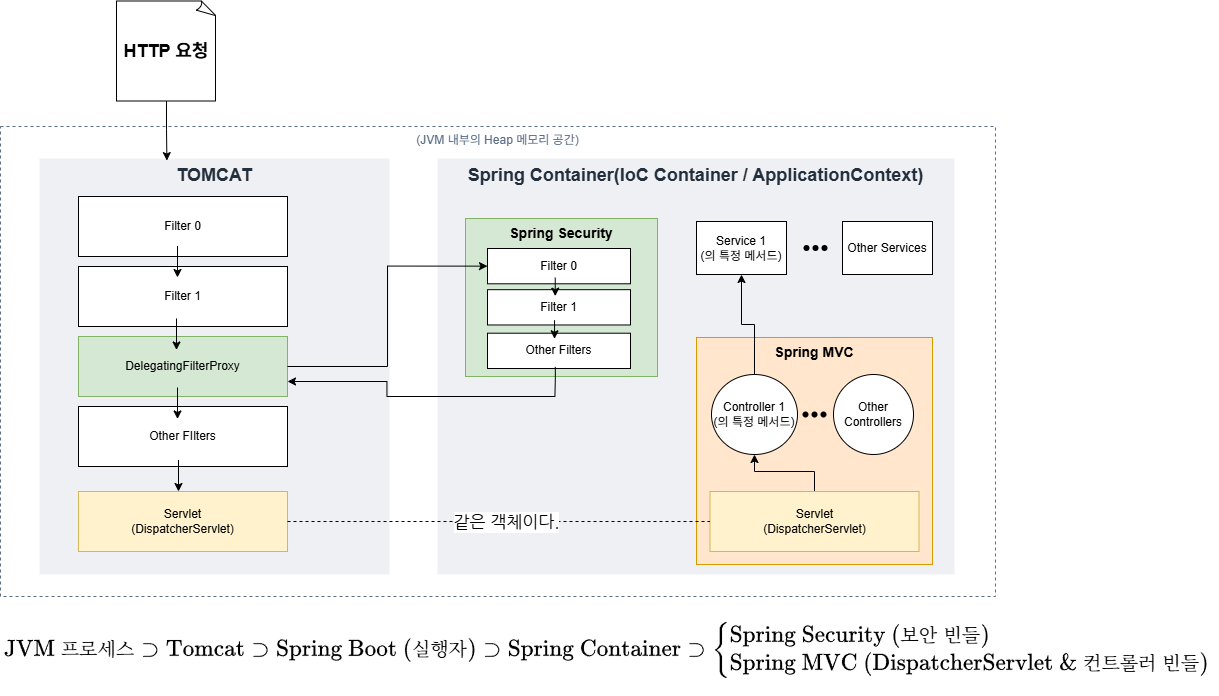
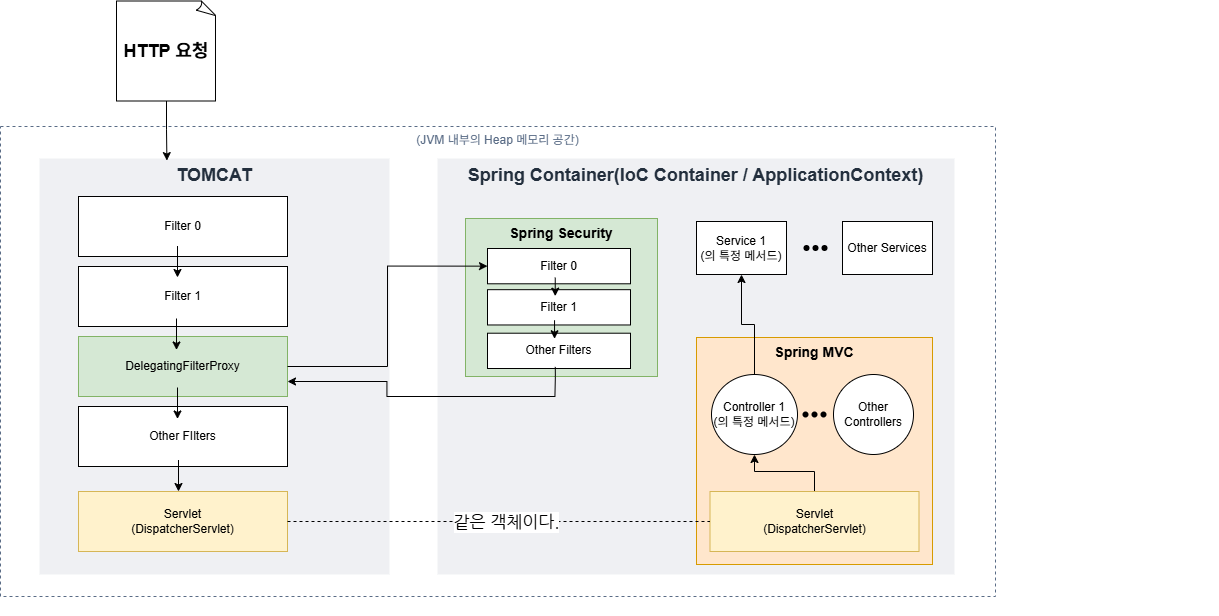
updating post

diff --git a/_posts/2026-07-17-Spring(1).md b/_posts/2026-07-17-Spring(1).md
@@ -1,0 +1,344 @@
+---
+layout: post
+title:  "[Spring] Spring 공부(1)"
+author: kau-newbie
+categories: [Spring]
+image: assets/images/forPost/Springicon.png
+---
+
+요약: Spring 프로젝트를 시작하기에 앞서, Spring 이란 무엇일까
+
+# Spring 프로젝트 - 홈캠 서버 구현하기
+
+프로젝트를 진행해볼겸, Spring으로 서버를 구현하기로 했다.
+
+## Spring이란
+
+**Spring**은 **framework**이다.
+
+### framework란?
+
+프레임워크는 [위키피디아](https://ko.wikipedia.org/wiki/%EC%86%8C%ED%94%84%ED%8A%B8%EC%9B%A8%EC%96%B4_%ED%94%84%EB%A0%88%EC%9E%84%EC%9B%8C%ED%81%AC)에서 정의하기를,
+
+<blockquote style="padding: 10px 15px; border-left: 4px solid #cbcbcb; background-color: #f9f9f9; color: #555;">
+"소프트웨어 프레임워크(software framework)는 개발자가 완전한 솔루션을 만들기 위해 확장하거나 맞춤화할 수 있는 재사용 가능하고 일반적인 기능을 제공하는 소프트웨어다. 간단히 뼈대, 골조(骨組), 프레임워크(framework)라고도 한다.(생략)"
+</blockquote><br>
+
+위의 정의를 대강 살펴보면, "재사용 가능하고 일반적인"이란 말이 들어있다. 개발자들이 사용하기 편한 수준으로 (시스템레벨, 네트워크 설정, DI 처럼 세세하게 신경써야하는 코드를 다 짜놓아서) 자주 쓸만한 기능들을 제공한다는 말이다.(*추상화*라고 하겠다.)
+> 이 기능들을 사용하는 방법은 보통 메서드 호출이 있고,
+>
+> 보통은 이 메서드 호출마저 '프레임워크가 자동으로 해주도록' *어노테이션(@)*을 이용한다.
+
+<details>
+<summary>막간 상식: 프레임워크(framework) v.s. 라이브러리(library)</summary>
+
+<blockquote style="padding: 10px 15px; border-left: 4px solid #cbcbcb; background-color: #f9f9f9; color: #555;">
+<strong>제미나이의 비유에 따르면,</strong><br><br>
+<ul>
+  <li>라이브러리(Library): 내가 주도권을 쥐고 필요할 때마다 꺼내 쓰는 도구. (자바의 Math.max(), 안드로이드의 Glide 등) 내가 원할 때 호출하고 흐름을 제어합니다.</li>
+  <li>프레임워크(Framework): 내가 그 안에 들어가서 규칙을 따라야 하는 틀이자 '프로그램의 뼈대'.</li>
+</ul><br>
+</blockquote>
+</details>
+
+계속해서 젬나이의 말을 각색하자면, Spring이 framework인 이유는 2가지가 있다고 한다.
+
+1. **제어의 역전(IoC)**
+
+  **IoC(Inversion of Control)**이란, 내가 코드를 짜고 시스템의 실행 흐름을 주도하며, 그 사이사이에 여러 라이브러리들의 메소드 등을 호출하는 방식이 아니라, Spring이라는 프레임워크가 전체적인 실행흐름을 주도해서, 개발자는 그 사이의 작은 실행흐름들에만 집중하도록 하는 방식을 말한다.
+
+2. **프레임워크(뼈대, 시스템의 구조)를 제공**
+
+  반복적인 작업을 줄일 수 있는 기능들을 제공한다. 이를테면 Spring은 내장된 톰캣을 실행하고, DB 커넥션을 연결하고, 미리 사용자가 만들어서 등록해놓은, 혹은 사용하기로 한 객체들을 만들어놓고, 자동으로 DI 및 생명주기를 관리한다. DB 조회 중 에러가 나면 다시 롤백을 하는 기능도 들어있다.
+
+말을 좀 바꿔서 미안하지만, 사실 Spring은 엄밀히 말하면 생태계라고 표현하는 게 맞는 것 같다.
+
+Spring이라는 기술 표준에 맞추어 다양한 기능을 제공하는 모듈이 있다.([이 사이트에서 확인할 수 있다.](https://spring.io/projects))
+
+사이트를 들어가보면 알겠지만, 여러 모듈 중에는 Spring Security(보안 기능 모아놓은 모듈), Spring Boot(Spring framework 쓰기 편하게 기본 설정들을 자동화해놓은 Spring 기반 응용 프로그램), 그리고 Spring Framework 등이 있다.
+
+### Spring Framework
+
+Spring Framework라고 아예 이름이 붙은 이 모듈은 말 그대로 Spring 기반 Framework에서 핵심 기능들을 담당하고 있다.
+- **Core technologies**: dependency injection, events, resources, i18n, validation, data binding, type conversion, SpEL, AOP.
+- Testing: mock objects, TestContext framework, Spring MVC Test, WebTestClient.
+- Data Access: transactions, DAO support, JDBC, ORM, Marshalling XML.
+- **Spring MVC** and Spring WebFlux web frameworks.
+- Integration: remoting, JMS, JCA, JMX, email, tasks, scheduling, cache and observability.
+- Languages: Kotlin, Groovy, dynamic languages.
+
+공식 문서에서 이런식으로 설명이 나와있다. 앞서 언급했던 DI이외에도 data binding 등 다양한 기능이 들어있다. 그리고 Spring MVC는  Spring의 Model-View-Controll을 포함한 기본적인 웹 어플리케이션 아키텍처에 대해 지원하는 기능들이 들어있다.
+> 가령, @Controller라고 annotantion을 단 클래스는 컨트롤러로서 동작하며, 
+> 1. 컨트롤러 안 각 메서드 위 @GetMapping(), @PostMapping()등의 annotation에 써놓은 주소로 http 요청이 오면, 
+> 2. 해당 메서드를 프레임워크가 알아서 호출해주는 식이다.
+
+프로젝트에 들어가기에 앞서 설명이 자꾸 길어지지만, 좋은 게 좋은거니까. 이번에는 Spring Framework의 전체적인 동작을 살펴보려 한다.
+- 최대한 annotation 사용과 연관지어 알아보겠다.
+
+## Spring의 기본 동작
+
+#### MVC
+
+MVC라는, 설계 패턴 중 하나를 소개한다.
+
+Spring MVC 또한 이 패턴을 편리하게 지원하기 위해 만들었다. 오늘날, 서버가 페이지를 랜더링하지 않고 프론트엔드 단에 데이터만을 넘겨주는 역할을 한다지만, 여전히 MVC의 기능들은 필수 요소이다.
+
+MVC는 다음과 같이 이루어져있다.
+- Model
+- View
+- Controller
+
+**Controller**는 사용자 요청에 대해 올바른 동작을 호출하는 역할을 하는 레이어(layer)이다. 
+- 가령, "/user/login" GET 요청에는 login 페이지를, "/user/login" POST 요청에는 DB를 조회 등, 해당 비즈니스 로직을 담당하는 Service의 특정 메서드를 호출하는 식이다. 
+> 해당 메서드에는 처음 서비스 호출부터, 그 결과에 따른 redicreting(페이지 이동) 등을 포함한다.
+
+**View**는 사용자에 보여줄 화면을 주로 '템플릿'이라 부르는 틀로서 만들어 놓고, 후에 DB에서 model을 통해 받아올 데이터로 채워놓아 완성한다.
+
+  예를 들어, 
+
+  ```java
+   
+   <div>환영합니다, <span th:text="${usrId}">unknown</span>님.</div>
+
+  ```
+
+  이런식으로 html 문서 안에 **thymeleaf**라는 Server-Side 템플릿 엔진을 통해 템플릿을 구성한 뒤, 저 {usrId} 부분을 Controller에서 
+
+  ```java
+  model.addAttribute("isLoggedIn", false);
+  model.addAttribute("usrId", "Guest");
+  ```
+  과 같이 model이라는 Model 객체에 attribute를 담아두어 채우게 된다. 그 후 다시 이 thymeleaf에서 Model을 통해 받아와 채워준다.
+
+
+**model**은 데이터를 담아두는 일종의 보관소, 이 보관소에서 데이터를 주고 받는 로직, DB와의 연결을 통해 데이터를 저장/불러오는 로직 등 모든 것을 아우르는 레이어이다. 
+
+```
+
+===============================================================
+[ MODEL LAYER (비즈니스 로직 + 데이터) ]
+---------------------------------------------------------------
+1. 데이터 저장소 접근 : Repository (DAO)
+2. 비즈니스 상태/구조 : Entity / Domain Object
+3. 데이터 이동 바구니 : DTO (Data Transfer Object)
+4. 핵심 비즈니스 로직 : Service (Service Layer)
+===============================================================
+
+```
+
+위에 나왔듯, 일종의 데이터 보관소로서 Model Interface 구현체를 사용할 수도 있고,
+<details>
+<summary>(예를 들면, 이런 것이다.)</summary>
+
+<blockquote style="padding: 10px 15px; border-left: 4px solid #cbcbcb; background-color: #f9f9f9; color: #555;">
+<strong>Spring MVC에서 제공하는 기능으로, Model 객체를 구현해서, 공통된 attribute(멤버 변수)들을 담아둘 수 있게 한다.</strong><br><br>
+
+<pre style="padding: 15px; background-color: #f4f4f4; border-radius: 5px; font-family: monospace; line-height: 1.5; overflow-x: auto;">
+@Controller
+public class HomeController { 
+
+    @GetMapping("/home") 
+    public String showHomePage(Model model) {   // Spring Framework가 알아서 구현해둔 Model을 model이름으로 넣어준다.
+      ...
+      model.addAttribute("isLoggedIn", true);
+            model.addAttribute("usrId", auth.getName()); // 이런식으로 Model에 attribute들을 저장한다. 나중에 꺼내쓸 수 있다.
+            model.addAttribute("status", "ONLINE");      
+</pre><br>
+
+</blockquote>
+</details>
+
+혹은, 데이터를 저장해둔 DB로부터 필요한 데이터를 
+
+[model 부분 그림](/assets/images/forPost/Spring/controllertodb.drawio.png)
+
+사용자로부터 버그 리포트 게시판 페이지 요청을 받은 후, 해당 페이지를 보내는 과정은 아래와 같다.
+
+#### 예시그림 {#example-schema1}
+
+```text
+
+[ 클라이언트 (브라우저) ]
+       │  ▲
+(1) @Controller / @RestController  <-- 화면을 주거나 JSON/XML API 응답을 주는 관문
+       │  ▲
+(2) @Service                       <-- 핵심 비즈니스 로직 (로그인 검증, 데이터 가공 등)
+       │  ▲
+(3) @Repository                    <-- DB 테이블과 통신하여 데이터를 가져오고 저장함 (DAO/JPA)
+       │  ▲
+[ 데이터베이스 (DB) ]
+
+```
+
+(젬나이보고 그려달라고 했다.) DB에서 사용자 요청에 대한 데이터를 가져오기까지 Controller, Service, Repository라는 *컴포넌트*(`기능단위`라고 할 수 있을 것 같다.)들을 거친다. 
+
+이 컴포넌트들은 모두 스프링이 관리하는 **Bean**(Spring이 관리하는 객체)이 되며, 각각의 특화된 역할을 수행한다고 한다. 
+
+젬나이의 정리를 복붙해두겠다. 대충 읽어두고 밑에 부분을 마저 읽다가, 필요할 때 돌아와서 보면 되겠다.
+
+1. **기본적인 annotation들**
+
+  스프링 컨테이너에 "나를 빈으로 올려줘!"라고 말하는 가장 기본적인 컴포넌트 종류들입니다.
+
+  `@Component`: 가장 기본적이고 범용적인 스프링 빈 등록 애너테이션입니다. (아래의 컨트롤러, 서비스, 리포지토리는 모두 이 @Component를 확장한 특수 형태입니다.)
+
+  `@Controller`:
+
+  역할: 사용자의 요청(HTTP Request)을 받아 HTML 화면(Thymeleaf 뷰 등)을 반환하는 프레젠테이션 레이어의 수문장입니다.
+
+  안드로이드의 Activity처럼 사용자와 직접 맞닿아 화면을 제어하는 진입점 역할을 합니다.
+
+  `@Service`:
+
+  역할: 실질적인 핵심 비즈니스 로직(예: 사용자가 입력한 비밀번호가 일치하는지, 결제 승인이 가능한지 등)을 수행하는 비즈니스 레이어입니다.
+
+  화면이나 DB 기술에 종속되지 않는 순수한 프로그램의 핵심 규칙이 여기에 담깁니다.
+
+  `@Repository`:
+
+  역할: 데이터베이스나 파일 등 영구 저장소(Persistence)에 접근하여 데이터를 쓰고 읽는 데이터 액세스 레이어입니다.
+
+  안드로이드의 로컬 DB인 Room Database DAO와 정확히 같은 역할을 합니다.
+
+2. **웹 요청 매핑 애너테이션 (Controller 내부에서 사용)**
+
+  사용자가 보낸 URL 주소에 따라 어떤 메서드가 실행될지 교통정리를 해주는 애너테이션들입니다.
+
+ `@RequestMapping`: 특정 URL 경로를 컨트롤러 클래스나 메서드에 매핑합니다.
+
+  `@GetMapping`, `@PostMapping`, `@PutMapping`, `@DeleteMapping`:
+
+  각각 HTTP GET(조회), POST(등록/로그인), PUT(수정), DELETE(삭제) 요청이 들어왔을 때 실행될 메서드를 지정합니다.
+
+  예: 우리가 작성할 로그인 요청 폼에서 POST 방식으로 보낸 데이터는 @PostMapping("/login")이 붙은 메서드가 가로채서 처리합니다.
+
+3. **데이터 및 자바 설정 관련 애너테이션**
+
+  `@Configuration`: 해당 클래스가 스프링의 설정을 위한 자바 클래스임을 선언합니다. 내부에서 @Bean을 사용해 외부 라이브러리 객체들을 빈으로 등록합니다.
+
+  `@Bean`: 개발자가 직접 제어할 수 없는 외부 라이브러리(예: BCryptPasswordEncoder)를 스프링 빈으로 등록할 때 메서드 위에 붙입니다.
+
+기본적인 컴포넌트들(model, controller, service 등) 이외에 외부 라이브러리나 직접 만든 클래스들도 Spring이 관리하도록 하기 위해서 @Configuration, @Bean을 사용하는 경우를 주의깊게 찾아보면 도움이 될 것이다.
+
+이제 annotation의 실제 사용 예시를 들어보겠다.
+
+### annotation 사용 예시
+
+실제 코드들을 넣어가며 위에서 나온 [그림(schema)](#example-schema1)을 설명해보겠다.
+
+1. 사용자 요청
+
+  처음에 사용자는 `home.html`이란 홈페이지에 위치해 있다. 이제 아래와 같은 코드로 인해, 버튼을 눌러 서버로 해당 페이지 요청을 보내게 된다.
+
+  ```html
+
+  <a sec:authorize="hasRole('ADMIN')" th:href="@{/admin/bug-report/list}" class="btn btn-outline-secondary" role="button">⚙ bug report list</a>
+
+  ```
+
+  대충 읽어보면 \<a> 레이블(<>로 감싼 하나하나가 레이블이라 부르는 단위이다.)이 `role="button"`이기 때문에 버튼 역할을 한다. 특히  `th:href="@{/admin/bug-report/list}"` 부분에 의해 이 버튼을 눌렀을 때 해당 경로로 http GET요청을 서버에 보내게 된다.
+  - `<a href="/admin/bug-report/list">`와 같은 의미로, href의 default는 항상 GET요청이다.
+    - `th`는 `thymeleaf`라는 도구를 사용한다는 뜻이다. 주로 Spring MVC와 호환성도 좋고, html 태그에 그대로 사용할 수 있는 장점이 있따.
+  > 왜 굳이 th:href를 사용했냐 하면, thymeleaf를 쓰면 기본적으로 *?id=10&page=2*처럼 뒤에 붙을 동적인 파라미터도 알아서 작성해주고, Context path라는, 보통(주소만 치고 그 뒤 경로가 붙은 형태, 예: www.example.com/ <-- 이 '/' 뒤로 경로만 적어준다.)의 url과 달리 `/myapp/list/detail` 처럼 Context Path라는 경로를 적어줘야 하는 경우가 있는데, 이럴 경우 자동으로 적어준다고 한다.
+  - 서버에서는 @Controller에서 ("/admin/bug-report/list")에 대해 mapping(특정 메서드가 호출되도록 연결)해줄 수 있다.
+
+  정리하자면, 사용자는 */admin/bug-report/list* 경로로 `http get` 요청을 서버에 보낸다.
+
+2. 이제 Spring Framework의 차례다.
+
+  Spring Boot를 통해 미리 톰캣도 돌리고, 설정해놓은 Bean들도 미리 만들어두고(DI대기), 대기 중이다가 사용자 요청이 들어오면 해당 요청을 Controller에게 넘겨준다.
+
+  <details>
+  <summary>사실 엄밀히 말하자면, Spring Security에서 가장 먼저 처리한다.</summary>
+
+  <pre style="padding: 15px; background-color: #f4f4f4; border-radius: 5px; font-family: monospace; line-height: 1.5; overflow-x: auto;">
+    @Configuration
+    @EnableWebSecurity
+    @EnableMethodSecurity
+    public class SecurityConfig { ... //생략
+      @Bean
+      public SecurityFilterChain filterChain(HttpSecurity http) throws Exception { ...// 일부 생략
+        http
+            // 1. 페이지 접근 권한 설정
+            .authorizeHttpRequests(auth -> auth
+                // 대시보드(/home), 정적 리소스(CSS, JS)는 로그인 없이도 누구나 접근 가능하도록 허용
+                .requestMatchers("/home","/css/**", "/js/**", "/images/**","/member/signup", "/api/v1/**").permitAll()
+                // 그 외 모든 요청은 로그인이 필요하도록 설정
+                .anyRequest().authenticated()
+            ) //... 이후 생략
+  </pre><br>
+  이런식으로 만들어진 SecurityFilterChain이라는, security를 위한 연속된(chain) filter들을 통과시킨 후, Spring Framework가 요청을 받게 된다. [더 자세히는 이 게시글에 써놓았다.](https://kau-newbie.github.io/SpringSecurity(1)/)
+  </details>
+
+  아래 만들어둔 별도의 컨트롤러 예시가 있다.
+
+  ```java
+
+  @Controller
+  @RequiredArgsConstructor
+  public class BugReportController {
+  
+  	private final BugReportService bugReportService; // 서비스 계층을 호출
+  
+  	@GetMapping("/bug-report/new")
+  	public String showBugReportPage() {
+  		return "bug-report/new";
+  	}	
+  
+  	@PostMapping("/bug-report/create")
+  	public String postBugReport(BugReportForm form, @AuthenticationPrincipal UserDetails userDetails) { // dto인 BugReportForm을 Spring이 할 것.
+  		System.out.println(form.toString());
+  
+  		// dto를 엔티티로 변환
+  		// 1. 비즈니스 로직 처리는 서비스에게 완전히 떠넘깁니다.
+          bugReportService.createReport(form, userDetails.getUsername());
+  		// 2. repository로 엔티티를 db에 저장
+  
+  		return "redirect:/home";
+  	}
+  
+  	// <관리자용 버그 리포트 조회 기능들>
+  
+  	// 1. 관리자가 버그 리포트 조회 버튼을 눌렀을 때
+  	@GetMapping("/admin/bug-report/list")
+  	@PreAuthorize("hasRole('ADMIN')")
+  	public String showBugReportList(Model model) {
+  	    List<BugReport> reports = bugReportService.findAllReports();
+  	    model.addAttribute("reports", reports);
+  	    return "admin/bug-report/list"; // 목록 조회 HTML
+  	}
+  	// 2. 관리자가 버그 리포트 조회 페이지에서 특정 버그 리포트를 눌렀을 때
+  	// 일반 USER 권한 유저가 접근하면 시큐리티가 403 Forbidden 에러로 튕겨냅니다.
+      @GetMapping("/admin/bug-report/{id}")
+      @PreAuthorize("hasRole('ADMIN')") 
+      public String showReportDetail(@PathVariable("id") String id, Model model) {
+          BugReport report = bugReportService.findReportById(id);
+          model.addAttribute("report", report); //BugReport Entity를 담는다.
+          return "admin/bug-report/detail";
+      }
+  }
+
+  ```
+
+  여러 요청 경로(`@X_Mapping()`안에 써 둔 경로들)로 GET/POST 요청이 들어왔을 때, 해당 메서드를 Spring Framework가 호출하도록 한다.
+  - @(annotation)을 붙여두는 의미가 그런 의미이다.(이런 annotation에는 이런 기능을, 저런 annotation에는 저런 기능을 다 Spring이 만들어두었다. 컴파일 및 빌드할 때 Spring이라는 Framework가 다 훑어보고(?) 구현 및 메모리에 올린다고 한다..
+
+  다른 것보다 아까 버그리포트 게시글은 */admin/bug-report/list* 경로로 요청을 보내도록 했다. 해당 경로에 대한 메서드를 찾아보면,
+
+  ```java
+
+  // 1. 관리자가 버그 리포트 조회 버튼을 눌렀을 때
+  	@GetMapping("/admin/bug-report/list")
+  	@PreAuthorize("hasRole('ADMIN')")
+  	public String showBugReportList(Model model) {
+  	    List<BugReport> reports = bugReportService.findAllReports();
+  	    model.addAttribute("reports", reports);
+  	    return "admin/bug-report/list"; // 목록 조회 HTML
+  	}
+
+  ```
+  요 부분이다. `PreAuthorize`는 메서드 실행전에 authorize(권한)을 확인하라는 뜻인데, 이건 Spring Security가 다루는 내용이라 여기선 더 자세한 내용은 생략한다. 아무튼 이 메서드 위에 `@GetMapping` annotation이 붙어있는 것을 확인할 수 있다.
+
+  이제 Spring Framework는 (정확히는 Spring MVC이다.) 사용자의 요청에 대해 컨트롤러 안 해당 메서드를 실행할 것이다.
+
+  이때, 인자로 넘어가는 `Model`이란 게 있다. 

diff --git a/_posts/2026-07-17-SpringSecurity(1).md b/_posts/2026-07-17-SpringSecurity(1).md
@@ -9,7 +9,7 @@ image: assets/images/forPost/Springicon.png
 요약: Spring Security란 무엇일까
 
 <details>
-<summary>막간 상식</summary>
+<summary>막간 상식: jakarta란?</summary>
 
 <blockquote style="padding: 10px 15px; border-left: 4px solid #cbcbcb; background-color: #f9f9f9; color: #555;">
 <strong>jakarta가 뭘까?</strong><br><br>
@@ -308,11 +308,14 @@ VirtualFilterChain에서는 똑같이 필터 chain을 다 통과할 때까지 do
 
 ## Spring Security를 프로젝트에 적용해보기
 
-### 코드 {#exampleCode-section}
+실제 프로젝트에 적용할 예시 코드를 보면서 더 자세히 알아보자.
+
+### 예시 코드 {#exampleCode-section}
 
 우선, com.example.demo 밑에 패키지(폴더)를 하나 만들고 config로 이름을 정한다.
 
-그 후, config 아래에 SecurityConfig.java 파일을 만든다. 코드는 위에서 잠깐 나왔던 코드와 동일한 코드이다.
+그 후, config 아래에 SecurityConfig.java 파일을 만든다. 
+- (코드는 위에서 잠깐 나왔던 코드와 동일한 코드이다.)
 
 ```java
 
